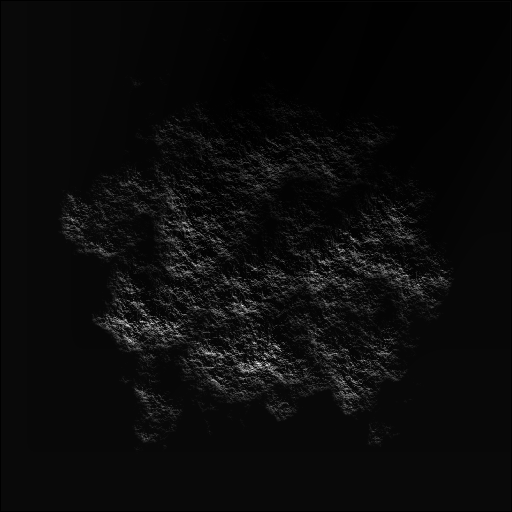
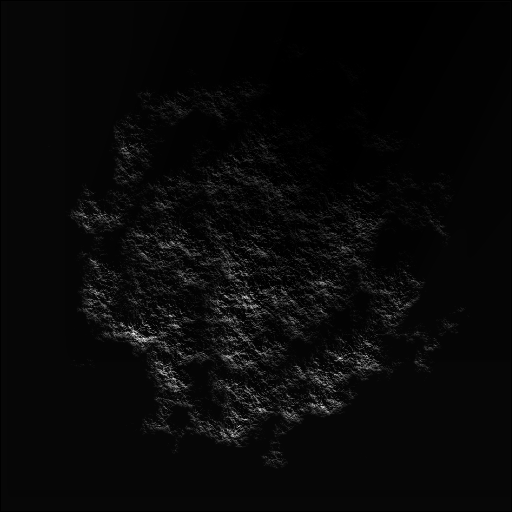
Tweak

Changed region(s): [[0.125, 0.25, 0.875, 0.875], [0.8125, 0.6875, 0.8438, 0.7188], [0.5312, 0.875, 0.5625, 0.9062]]

diff --git a/src/main.rs b/src/main.rs
@@ -259,7 +259,7 @@ impl Core {
 }
 
 fn main() {
-    let mut map = map::ProvBuilder::new(512, 0.2, 0.6, 2., 0., 1., 0.1, 0.9, 16., 8., 12., (1., -5.), 1., 0.001, 2000);
+    let mut map = map::ProvBuilder::new(512, 0.3, 0.6, 2., 0., 1., 0.1, 0.9, 16., 8., 12., (1., -5.), 1., 0.001, 2000);
 
     map.gen_heightmap();
     map.export(&map.heightmap, "heightmap.png");
